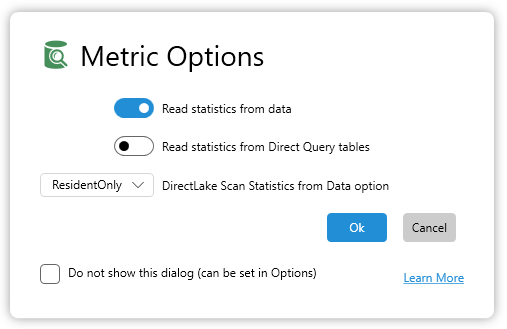
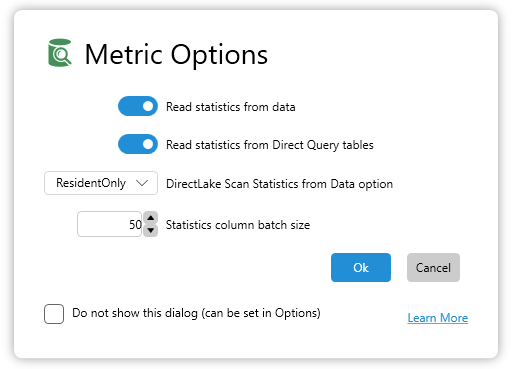
Doc updates for v3.2

diff --git a/docs/features/command-line/commands/export-sql-command.md b/docs/features/command-line/commands/export-sql-command.md
@@ -27,18 +27,35 @@ DSCMD EXPORT SQL <OutputFolder> [OPTIONS]
 | -p, --password &lt;PASSWORD> | The password to use for AzureAD authentication (see [Authentication](../../authentication) for more details)  |
 | -c, --connectionstring &lt;CONNECTIONSTRING> | The connection string for the data source |
 | -t, --tables &lt;TABLES> | A list of tables to be exported, if this option is not specified all the tables in the model are exported |
-| -e, --schema $lt;SCHEMA> | The schema in which the destination tables belong (defaults to 'dbo') |
+| -e, --schema &lt;SCHEMA> | The schema in which the destination tables belong (defaults to 'dbo') |
 | -r, --recreate-tables | Will drop and re-create the target tables |
+
+## -t --tables Option
+This option is a comma separate list of table names
+
+:::info
+If you need to include tables with spaces the whole parameter needs to be quoted eg. `-t "Table 1,Table 2"`
+
+If you need to include `"` characters these need to be escaped with a leading backslash eg. `-t "My \"Table\" 1,Table2`
+
+If you need to include `,` or `\` characters these need to be doubled up eg. `-t "My \"Table\" \\ 1,Table2`
+:::
+
+| Table Name Scenario | Example | Table Names |
+|---|---|---|
+| No Spaces | `-t Table1,Table2,Table3` | Table1<br/>Table2<br/>Table3|
+| Including Spaces | `-t "Table 1,Table 2,Table3"` | Table 1<br/>Table 2<br/>Table3|
+| Including Quotes | `-t "Table1,My \"Table\" 2,Table3"` | Table1<br/>My "Table" 2<br/>Table3|
+| Including Commas | `-t Table1,My,,Table2,Table3` | Table1<br/>My,Table2<br/>Table3|
+| Including Quotes,Commas & Spaces | `-t "Table1,My,,\"Table\" 2,Table3"` | Table1<br/>My,"Table" 2<br/>Table3|
 
 
 ## Examples
 
 The following example exports all of the tables from the `Adventure Works` model 
-```
-dscmd.exe export sql "Data Source=localhost\sql;Initial Catalog=DataDump;Integrated Security=SSPI" -s localhost\tabular -d "Adventure Works"
-```
+
+`dscmd.exe export sql "Data Source=localhost\sql;Initial Catalog=DataDump;Integrated Security=SSPI" -s localhost\tabular -d "Adventure Works"`
 
 The following example exports only exports the `Product`, `Product Category` and `Reseller Sales` tables from the `Adventure Works` model 
-```
-dscmd.exe export sql "Data Source=localhost\sql;Initial Catalog=DataDump;Integrated Security=SSPI" -s localhost\tabular -d "Adventure Works" -t Product "Product Category" "Reseller Sales"
-```
+
+`dscmd.exe export sql "Data Source=localhost\sql;Initial Catalog=DataDump;Integrated Security=SSPI" -s localhost\tabular -d "Adventure Works" -t Product "Product Category" "Reseller Sales"`

diff --git a/docs/features/command-line/commands/export-csv-command.md b/docs/features/command-line/commands/export-csv-command.md
@@ -26,8 +26,28 @@ DSCMD EXPORT CSV <OutputFolder> [OPTIONS]
 | -u, --userid &lt;USERID> | The username to use for authentication (see [Authentication](../../authentication) for more details) |
 | -p, --password &lt;PASSWORD> | The password to use for authentication (see [Authentication](../../authentication) for more details) |
 | -c, --connectionstring &lt;CONNECTIONSTRING> | The connection string for the data source |
-| -f, --file &lt;FILE> | A file containing a DAX query to be executed. Could be a text file or .dax or .daxx |
 | -q, --query &lt;QUERY> | A string with the DAX query to be executed |
+| -t, --tables &lt;TABLES> | A list of tables to be exported (defaults to all tables) |
+
+## -t --tables Option
+This option is a comma separate list of table names
+
+:::info
+If you need to include tables with spaces the whole parameter needs to be quoted eg. `-t "Table 1,Table 2"`
+
+If you need to include `"` characters these need to be escaped with a leading backslash eg. `-t "My \"Table\" 1,Table2`
+
+If you need to include `,` or `\` characters these need to be doubled up eg. `-t "My \"Table\" \\ 1,Table2`
+:::
+
+| Table Name Scenario | Example | Table Names |
+|---|---|---|
+| No Spaces | `-t Table1,Table2,Table3` | Table1<br/>Table2<br/>Table3|
+| Including Spaces | `-t "Table 1,Table 2,Table3"` | Table 1<br/>Table 2<br/>Table3|
+| Including Quotes | `-t "Table1,My \"Table\" 2,Table3"` | Table1<br/>My "Table" 2<br/>Table3|
+| Including Commas | `-t Table1,My,,Table2,Table3` | Table1<br/>My,Table2<br/>Table3|
+| Including Quotes,Commas & Spaces | `-t "Table1,My,,\"Table\" 2,Table3"` | Table1<br/>My,"Table" 2<br/>Table3|
+
 
 ## Examples
 

diff --git a/docs/features/model-metrics.md b/docs/features/model-metrics.md
@@ -35,6 +35,7 @@ This dialog allows you to override the default statistic scanning behaviour for 
 | Read Statistics from data | true | Scan the data to retrieve accurate statistics about columns, tables and relationships.|
 | Read Statistics from Direct Query data | false | Include Direct Query tables in statistics collection. This is a lot more expensive than reading statistics from in-memory columns and is not recommended. |
 | Direct Lake scan statistics from Data option | ResidentOnly | **ResidentOnly** only scans columns that are already loaded into memory <br/>**Referenced** scans columns that are already <br/>resident and columns referenced in measures or relationships<br/>**Full** scans all columns, forcing them into memory (not recommended for large models)|
+| Statistics Column Batch Size | 50 | When reading statistics from the data this sets the number of columns to be scanned in a single query. In some scenarios like scanning Direct Lake models where the total size of the data is larger than the memory limit of your capacity you may need to reduce the batch size, specially if attempting to do a **Full** scan |
 
 ## View Metrics
 

diff --git a/docs/features/smart-paste.md b/docs/features/smart-paste.md
@@ -1,0 +1,12 @@
+---
+title: Smart Paste
+---
+When pasting DAX queries in from other sources it is possible that the text may have issues which requires fixing before the queries can be run.
+
+When pasting into the edit pane in DAX Studio the editor performs the following actions:
+* **Make sure no lines are longer than 500 characters** - There are 2 reasons for breaking lines at 500 characters. 
+	1. Readability. Very long lines are usually generated by some process and are hard for a person to read. 
+	2. Performance. The syntax highlighting in DAX Studio is only applied for the visible lines, but extremely long lines can cause it to hang the UI for an extended period
+* **Replace unicode spaces with ascii spaces** - non-standard spaces will cause the tabular engine to throw "invalid token" errors which are very hard to understand since you cannot see the difference between the different types of whitespace.
+* **Replace "smart quotes" with standard ascii quotes** - smart quotes break DAX expressions since the text inside them is no longer treated as a `"string"` or `'table name'`.
+
